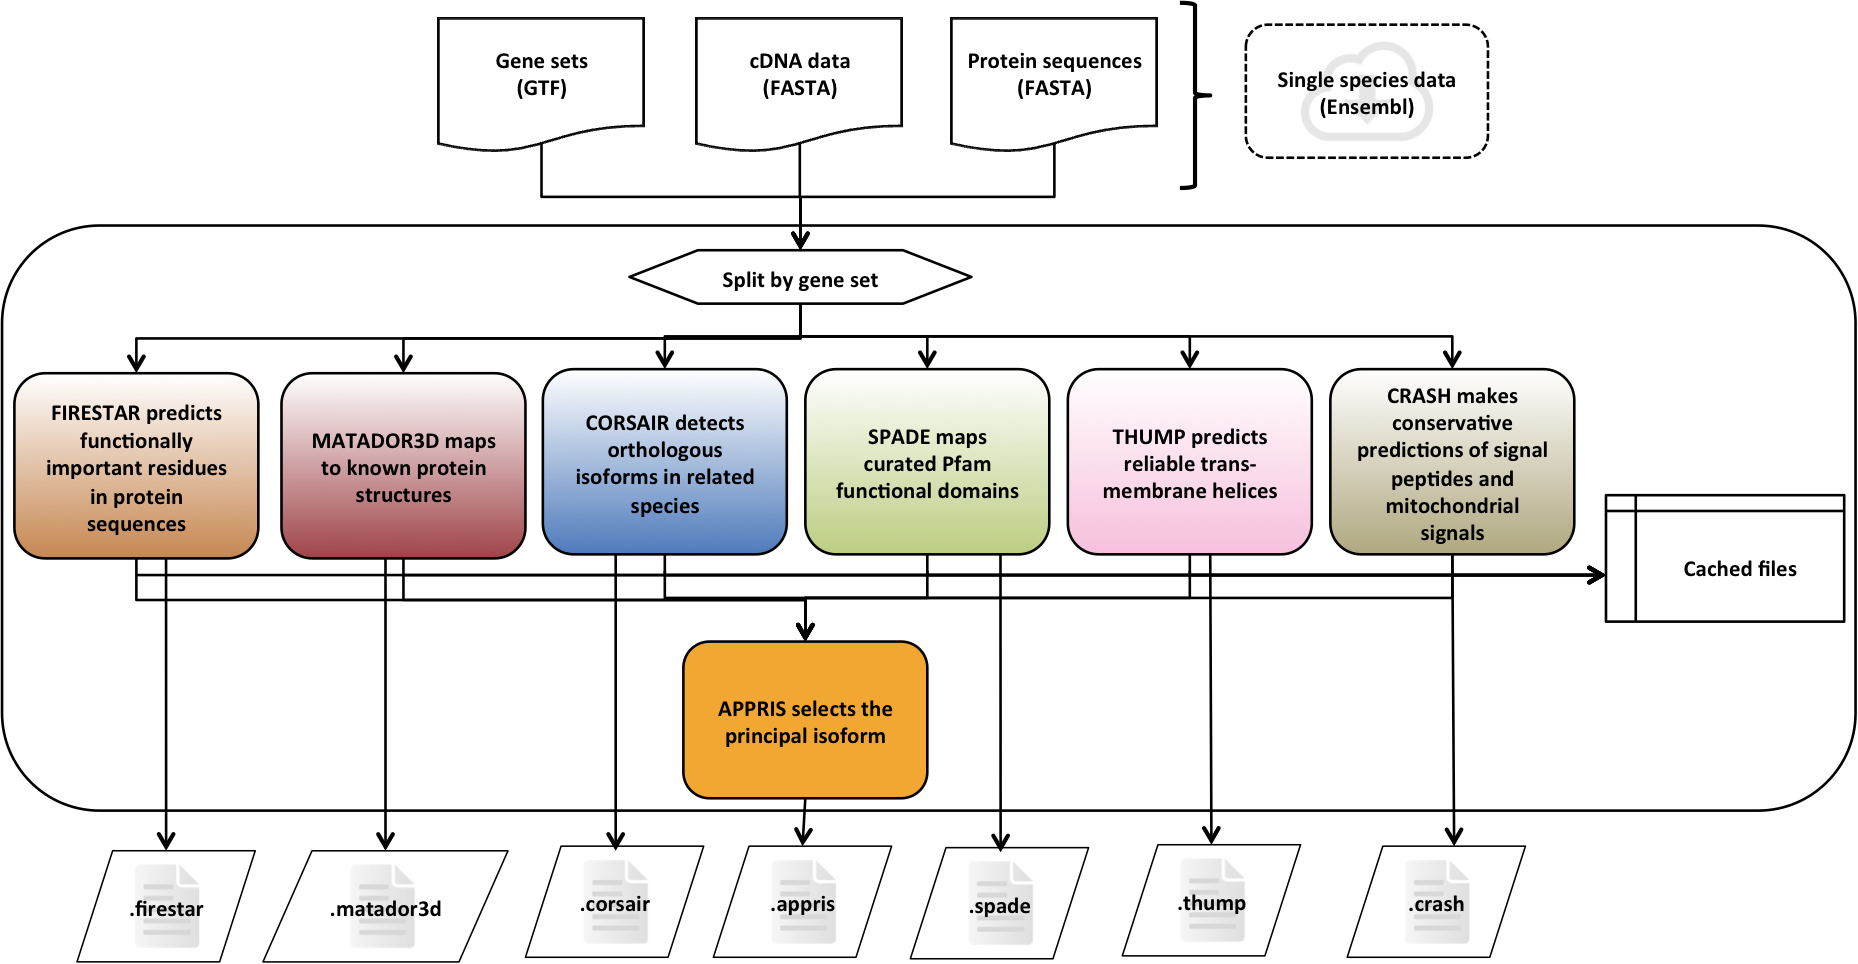
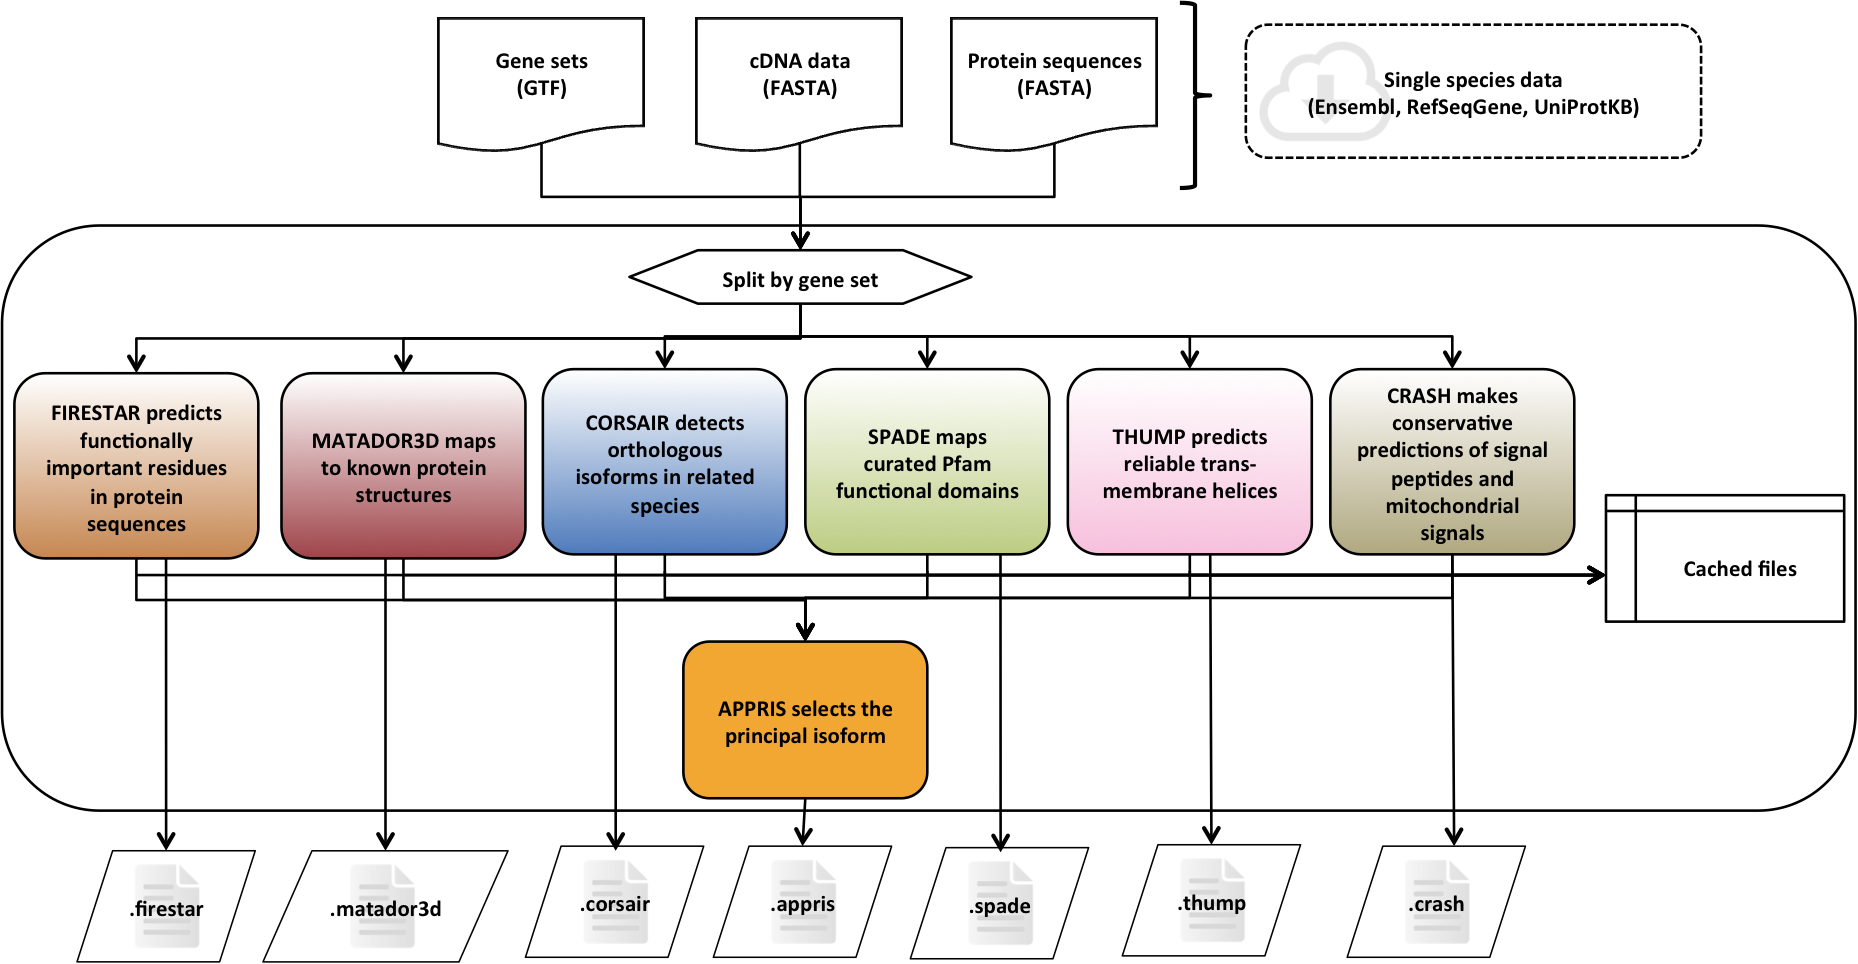
- change the Domain name to appris-tools.org - improvements in the documentation

Changed region(s): [[0.6555, 0.0311, 0.8741, 0.1556]]

diff --git a/server/app/partials/help.html b/server/app/partials/help.html
@@ -17,15 +17,16 @@
                         <strong>evidence from cross-species alignments</strong>.
                     </p>
                     <p>The server has been used to annotate the Human genome as part of the
-                        <a href="http://www.gencodegenes.org" target="_blank">GENCODE</a> consortium but {APPRIS} also has annotations for other vertebrate species. The main data source for {APPRIS} are the <a href="http://www.ensembl.org" target="_blank">Ensembl</a> annotations and sequences.
+                        <a href="http://www.gencodegenes.org" target="_blank">GENCODE</a> consortium but {APPRIS} also has annotations for other vertebrate species. The main data source for {APPRIS} are the <a href="http://www.ensembl.org" target="_blank">Ensembl</a> annotations and sequences, but we have increased the gene sets including the <a href="https://www.ncbi.nlm.nih.gov/refseq/rsg" target="_blank">RefSeqGene</a> reference sets, and <a href="http://www.uniprot.org/" target="_blank">UniProt</a> proteomes. In addition, we have created new gene sets based on the merge of <b>Ensembl</b>+<b>RefSeqGene</b>+<b>UniProtKB</b> isoforms for each gene.
                     </p>
                     <p>
                         <img src="img/APPRIS_tools.png" class="img-thumbnail img-responsive">
                     </p>
                     <p>There are three ways to retrieve annotations for alternative splice isoforms:
                     <ul>
-                    <li>The <a href="#/help/database">APPRIS Database</a>, a web database that houses splice isoform annotations and principal isoforms for five vertebrate species (human, mouse, rat, pig, and zebrafish).</li>
-                    <li>The <a href="#/help/server">APPRIS WebServer</a>, web server that provides annotations of alternative splice isoforms and identifies principal isoforms for six other vertebrate species (dog, cat, cow, opossum, chicken and fugu).</li>
+                    <li>The <a href="#/help/database">APPRIS Database</a>, a web database that houses splice isoform annotations and principal isoforms for six vertebrate species (human, mouse, rat, pig, chimp, and zebra-fish),
+                        and two invertebrate species (fruit-fly and <i>C.elegans</i>).</li>
+                    <li>The <a href="#/help/server">APPRIS WebServer</a>, web server that provides annotations of alternative splice isoforms and identifies principal isoforms for other species (see the list of <a href="#/help/species">available species</a>).</li>
                     <li>The <a href="#/help/services">APPRIS WebServices</a>, a collection of RESTful web services that provides automatic access to annotations from the server and database for the two lists of vertebrate species.</li>
                     </ul>
                     </p>
@@ -53,6 +54,25 @@
                 <div class="panel-heading"><h2>Help & Docs <small>The APPRIS Database</small></h2></div>
                 <div class="panel-body">
                     <help-database></help-database>
+                </div>
+            </div>
+        </div>
+
+        <div data-ng-if="help == 'methods'">
+            <div class="panel panel-default">
+                <div class="panel-heading"><h2>Help & Docs <small>The APPRIS Methods</small></h2></div>
+                <div class="panel-body">
+                    <help-methods></help-methods>
+                </div>
+            </div>
+        </div>
+
+        <div data-ng-if="help == 'database/query'">
+            <div class="panel panel-default">
+                <div
+                        class="panel-heading"><h2>Help & Docs <small>Query, what do you need to start</small></h2></div>
+                <div class="panel-body">
+                    <help-db-query></help-db-query>
                 </div>
             </div>
         </div>
@@ -99,6 +119,15 @@
                 <div class="panel-heading"><h2>Help & Docs <small>The APPRIS WebServices</small></h2></div>
                 <div class="panel-body">
                     <help-services></help-services>
+                </div>
+            </div>
+        </div>
+
+        <div data-ng-if="help == 'docker'">
+            <div class="panel panel-default">
+                <div class="panel-heading"><h2>Help & Docs <small>Docker</small></h2></div>
+                <div class="panel-body">
+                    <help-docker></help-docker>
                 </div>
             </div>
         </div>

diff --git a/ws/apidoc/gold.html b/ws/apidoc/gold.html
@@ -104,33 +104,33 @@
 <div class="row clearfix">
     <nav class="navbar navbar-default navbar-fixed-top navbar-appris" role="navigation">
         <div class="navbar-header">
-            <a class="navbar-brand" href="http://appris.bioinfo.cnio.es">{APPRIS}</a>
+            <a class="navbar-brand" href="http://appris-tools.org">{APPRIS}</a>
         </div>
 
         <div class="collapse navbar-collapse" id="bs-example-navbar-collapse-1">
             <ul class="nav navbar-nav">
                 <li class="dropdown" dropdown is-open="status.isopen">
-                    <a href="http://appris.bioinfo.cnio.es/#/tools" class="dropdown-toggle" dropdown-toggle ng-disabled="disabled">Tools <b class="caret"></b></a>
+                    <a href="http://appris-tools.org/#/tools" class="dropdown-toggle" dropdown-toggle ng-disabled="disabled">Tools <b class="caret"></b></a>
                     <ul class="dropdown-menu">
-                        <li><a href="http://appris.bioinfo.cnio.es/#/seeker">Database</a></li>
-                        <li><a href="http://appris.bioinfo.cnio.es/#/server">WebServer</a></li>
-                        <li><a href="http://apprisws.bioinfo.cnio.es/apidoc/">WebServices</a></li>
+                        <li><a href="http://appris-tools.org/#/seeker">Database</a></li>
+                        <li><a href="http://appris-tools.org/#/server">WebServer</a></li>
+                        <li><a href="http://appris-tools.org/apidoc/">WebServices</a></li>
                     </ul>
                 </li>
                 <li>
-                    <a href="http://appris.bioinfo.cnio.es/#/downloads">Downloads</a>
+                    <a href="http://appris-tools.org/#/downloads">Downloads</a>
                 </li>
                 <li>
                     <a href="/">WebServices</a>
                 </li>
                 <li>
-                    <a href="http://appris.bioinfo.cnio.es/#/help/intro">Help & Docs</a>
+                    <a href="http://appris-tools.org/#/help/intro">Help & Docs</a>
                 </li>
                 <!--<li>-->
-                    <!--<a href="http://appris.bioinfo.cnio.es/#/news">News</a>-->
+                    <!--<a href="http://appris-tools.org/#/news">News</a>-->
                 <!--</li>-->
                 <li>
-                    <a href="http://appris.bioinfo.cnio.es/#/about">About us</a>
+                    <a href="http://appris-tools.org/#/about">About us</a>
                 </li>
             </ul>
         </div>

diff --git a/server/app/partials/help/help/database.html b/server/app/partials/help/help/database.html
@@ -1,22 +1,19 @@
 <div>
     <p>Alternative splicing generates different gene products. Recent studies have estimated that almost 100% of multi-exon human genes produce differently spliced mRNAs. It is important to designate one of the isoforms as the principal isoform in order to predict the potential changes in function, structure or localisation brought about by alternative splicing.
     </p>
-    <p>APPRIS annotates variants with biological data such as <strong>protein structural information</strong>, <strong>functionally important residues</strong>, <strong>conservation of functional domains</strong>and <strong>evidence of cross-species conservation</strong>. The APPRIS Database selects
-        a <strong>principal isoforms</strong> based on this evidence.
+    <p>APPRIS annotates variants with biological data such as <strong>protein structural information</strong>, <strong>functionally important residues</strong>, <strong>conservation of functional domains</strong> and <strong>evidence of cross-species conservation</strong>. The APPRIS Database selects a <strong>principal isoforms</strong> based on this evidence.
     </p>
-    <div class="thumbnail">
-        <img src="img/APPRIS_analysis.png" class="img-thumbnail img-responsive img-center" style="width: 90%">
-        <div class="caption">
-            <h5>APPRIS Database analysis</h5>
-            <small>The APPRIS Database automates a range of computational methods that are used to annotate alternative splice variants and to define principal variants. The splice isoform annotations are the results of the six modules in the APPRIS Database; the final module selects the principal isoforms.</small>
-        </div>
-    </div>
+    <hr>
 
-    <h3>Method Description</h3>
+    <h2>Method Description</h2>
     <help-methods></help-methods>
+    <hr>
+
+    <h2>Query, What do you need to start</h2>
+    <help-db-query></help-db-query>
+    <hr>
 
     <h2>Report view, Visualising the annotations</h2>
     <help-report></help-report>
     <hr>
-
 </div>

diff --git a/server/app/templates/menuHelp.tpl.html b/server/app/templates/menuHelp.tpl.html
@@ -1,12 +1,17 @@
 <ul class="nav nav-pills nav-stacked">
     <li role="presentation"
         data-ng-class="{ active: isActive('/help/intro')}"><a href="#help/intro">Help & Docs</a></li>
+    <li role="presentation" data-ng-class="{ active: isActive('/help/methods')}"><a href="#help/methods">The APPRIS
+        Methods</a></li>
     <li role="presentation" data-ng-class="{ active: isActive('/help/database')}"><a href="#help/database">The APPRIS
         Database</a></li>
     <ul class="subnav subnav-pills" style="font-size: small">
         <li role="presentation"
-            data-ng-class="{ active: isActive('/help')}"><a href="#help/database/report">Report view, Visualising
-            the annotations</a></li>
+            data-ng-class="{ active: isActive('/help')}"><a href="#help/database/query">Query, What do you need
+            to start</a></li>
+        <li role="presentation"
+            data-ng-class="{ active: isActive('/help')}"><a href="#help/database/report">Report view, Visualising the
+            annotations</a></li>
     </ul>
     <li role="presentation" data-ng-class="{ active: isActive('/help/server')}"><a href="#help/server">The APPRIS WebServer</a>
         <ul class="subnav subnav-pills" style="font-size: small">
@@ -20,6 +25,9 @@
     </li>
     <li role="presentation" data-ng-class="{ active: isActive('/help/services')}"><a
             href="#help/services">The APPRIS WebServices</a>
+    </li>
+    <li role="presentation" data-ng-class="{ active: isActive('/help/docker')}"><a
+            href="#help/docker">Docker</a>
     </li>
     <li role="presentation" data-ng-class="{ active: isActive('/help/species')}"><a href="#help/species">Available
         Species</a>

diff --git a/server/app/partials/help/help/methods.html b/server/app/partials/help/help/methods.html
@@ -11,6 +11,14 @@
     <li>Selection of primary variant, <strong>APPRIS</strong></li>
 </ol>
 
+<div class="thumbnail">
+    <img src="img/APPRIS_analysis.png" class="img-thumbnail img-responsive img-center" style="width: 90%">
+    <div class="caption">
+        <h5>APPRIS Database analysis</h5>
+        <small>The APPRIS Database automates a range of computational methods that are used to annotate alternative splice variants and to define principal variants. The splice isoform annotations are the results of the six modules in the APPRIS Database; the final module selects the principal isoforms.</small>
+    </div>
+</div>
+
 <h4>Firestar: Functionally Important Residues</h4>
 <p><strong><a href="http://firedb.bioinfo.cnio.es/Php/FireStar.php" target="_blank">firestar</a></strong> predicts functionally
     important residues based on the <a href="http://firedb.bioinfo.cnio.es/Php/FireDB.php" target="_blank">fireDB</a> database. The predictions are based on the local evaluation of alignments between the query sequence and the structures with functional information that are stored in FireDB. The reliability of predictions is assessed with <a href="http://firedb.bioinfo.cnio.es/Php/square.php" target="_blank">SQUARE</a> and the functional information is highlighted along with a reliability score.</p>

diff --git a/server/app/partials/seeker.html b/server/app/partials/seeker.html
@@ -3,7 +3,6 @@
     that cannot be defined in the simple search (panel at top, right).
 </p>
 <seeker-info-gene-tpl></seeker-info-gene-tpl>
-<seeker-info-inputs-tpl></seeker-info-inputs-tpl>
 
 <form name="seekerAdvancedForm" role="form" class="form-horizontal" data-ng-submit="runJob(seekerAdvancedForm)" novalidate>
 
@@ -26,7 +25,7 @@
     <div class="control-group runner-input">
         <label>2: Optional queries</label>
         <span class="glyphicon glyphicon-info-sign runner-info pointer" aria-hidden="true" data-toggle="modal"
-              data-target="#infoInputs"></span>
+              data-target="#infoGene"></span>
         <div class="input-group-addon" style="text-align: left;">
             <div class="form-inline">
                 <select class="form-control"  data-ng-model="seekerAdvancedForm.species"

diff --git a/server/app/js/directives.js b/server/app/js/directives.js
@@ -84,6 +84,13 @@ apprisDirectives.directive('helpMethods', function() {
     };
 });
 
+apprisDirectives.directive('helpDbQuery', function() {
+    return {
+        restrict: 'E',
+        replace: true,
+        templateUrl: 'partials/help/help/dbquery.html'
+    };
+});
 
 apprisDirectives.directive('helpQueries', function() {
     return {
@@ -297,6 +304,14 @@ apprisDirectives.directive('resultInfoBrowserGenTpl', function() {
         restrict: 'E',
         replace: true,
         templateUrl: 'partials/help/result/infoBrowserGen.html'
+    };
+});
+
+apprisDirectives.directive('helpDocker', function() {
+    return {
+        restrict: 'E',
+        replace: true,
+        templateUrl: 'partials/help/help/docker.html'
     };
 });
 

diff --git a/server/app/partials/help/seeker/infoGene.html b/server/app/partials/help/seeker/infoGene.html
@@ -4,10 +4,10 @@
         <div class="modal-content">
             <div class="modal-header">
                 <button type="button" class="close" data-dismiss="modal"><span aria-hidden="true">&times;</span><span class="sr-only">Close</span></button>
-                <h4 class="modal-title" id="infoGeneLabel">Species Description</h4>
+                <h4 class="modal-title" id="infoGeneLabel">Query Info</h4>
             </div>
             <div class="modal-body">
-                <help-species></help-species>
+                <help-db-query></help-db-query>
             </div>
         </div>
     </div>

diff --git a/server/app/js/app-gold.js b/server/app/js/app-gold.js
@@ -36,7 +36,7 @@ apprisApp.config(['$provide', function ($provide) {
     // GOLD server - production
     $provide.value("serverName", '{APPRIS}');
     $provide.value("serverType", 'gold');
-    $provide.value("serverHost", 'http://appris.bioinfo.cnio.es');
+    $provide.value("serverHost", 'http://appris-tools.org');
     $provide.value("serverHostWS", 'http://apprisws.bioinfo.cnio.es');
 
     // CONSTANTS

diff --git a/server/app/partials/help/help/queries.html b/server/app/partials/help/help/queries.html
@@ -1,5 +1,5 @@
 <div>
-    <p>The APPRIS WebServer accepts two kind of querie:</p>
+    <p>The APPRIS WebServer accepts two kind of queries:</p>
     <ul>
         <li><p>Alternative protein sequences from the same gene,</p>
             <p>

diff --git a/server/app/partials/help/help/docker.html b/server/app/partials/help/help/docker.html
@@ -1,0 +1,4 @@
+<div>
+    <p>Docker info</p>
+
+</div>
